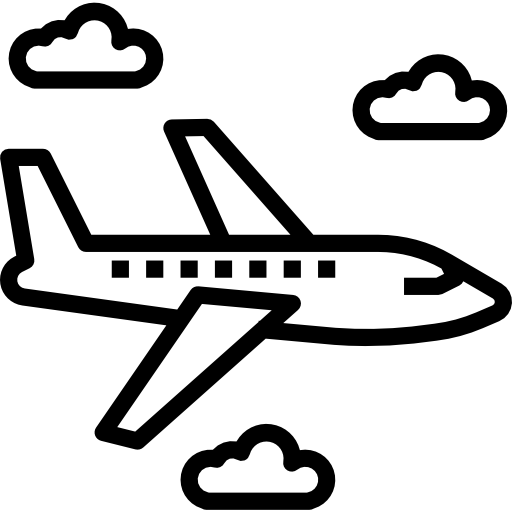
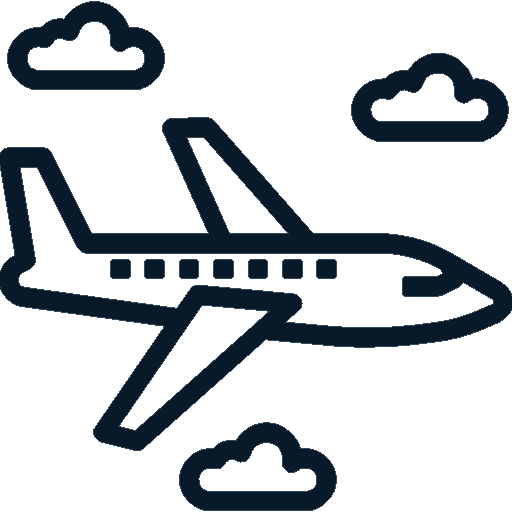
Improved website appearance and implemented request
Changed the background as well as the logo and added a favicon.
Implemented the request flow as well as the flavor text that displays how many countries were found by the request.

diff --git a/root/index.html b/root/index.html
@@ -23,22 +23,21 @@
     ></script>
     <link rel="stylesheet" href="css/index.css" />
     <script defer src="js/index.js"></script>
+    <link rel="shortcut icon" href="img/mundus-logo2.png" type="image/x-icon" />
     <title>Mundus</title>
   </head>
-  <body>
+  <body style="color: white !important">
     <nav class="navbar border-bottom border-dark border-3">
       <div class="container-fluid">
-        <a class="navbar-brand" href="#" style="font-size: 70px">
+        <a class="navbar-brand" href="#" style="font-size: 60px; color: white">
           <img
-            src="img/mundus-logo.png"
+            src="img/mundus-logo2.png"
             alt="Logo"
-            width="90"
-            height="90"
+            width="70"
+            height="70"
             class="d-inline-block align-text-top"
           />
-          Mundus<span style="font-size: 45px"
-            >, your personal guide to planet Earth.</span
-          >
+          Mundus<span style="font-size: 35px">, the Earth explorer.</span>
         </a>
       </div>
     </nav>
@@ -104,15 +103,43 @@
         </div>
       </div>
     </div>
+    <div id="country-count-flavor" class="h4 mt-4 text-center d-none">
+      Mundus found 80 countries.
+    </div>
     <div
       id="countryCarousel"
-      class="carousel slide carousel-dark"
-      data-bs-ride="true"
+      class="carousel slide carousel-light mt-4"
+      data-bs-ride="false"
     >
-      <div class="carousel-indicators"></div>
-      <div class="carousel-inner"></div>
+      <div class="carousel-indicators">
+        <button
+          type="button"
+          data-bs-target="#countryCarousel"
+          data-bs-slide-to="0"
+          class="active"
+          aria-current="true"
+          aria-label="Slide 1"
+        ></button>
+        <button
+          type="button"
+          data-bs-target="#countryCarousel"
+          data-bs-slide-to="1"
+          aria-label="Slide 2"
+        ></button>
+        <button
+          type="button"
+          data-bs-target="#countryCarousel"
+          data-bs-slide-to="2"
+          aria-label="Slide 3"
+        ></button>
+      </div>
+      <div class="carousel-inner text-center">
+        <div class="carousel-item active">Brazil</div>
+        <div class="carousel-item">United Kingdom</div>
+        <div class="carousel-item">Peru</div>
+      </div>
       <button
-        class="carousel-control-prev d-none"
+        class="carousel-control-prev"
         type="button"
         data-bs-target="#countryCarousel"
         data-bs-slide="prev"
@@ -121,7 +148,7 @@
         <span class="visually-hidden">Previous</span>
       </button>
       <button
-        class="carousel-control-next d-none"
+        class="carousel-control-next"
         type="button"
         data-bs-target="#countryCarousel"
         data-bs-slide="next"

diff --git a/root/js/index.js b/root/js/index.js
@@ -92,7 +92,9 @@ function submitSearch() {
   const searchHost = "https://restcountries.com/v3.1/";
   const searchBtn = document.querySelector("#search-button");
   const searchType = searchBtn.innerHTML;
-  const searchText = document.querySelector("#search-input").value.replace(/ /g,"%20");
+  const searchText = document
+    .querySelector("#search-input")
+    .value.replace(/ /g, "%20");
   let searchEndpoint;
   switch (searchType) {
     case "Code":
@@ -121,5 +123,35 @@ function submitSearch() {
       break;
   }
   const searchUri = searchHost + searchEndpoint;
-  console.log(searchUri);
+  fetch(searchUri)
+    .then((response) => response.json())
+    .then((data) => {
+      console.log(data);
+
+      if (data.status == 404) {
+        let countryCountFlavor = document.querySelector(
+          "#country-count-flavor"
+        );
+        countryCountFlavor.innerText =
+          "Mundus didn't find any countries matching your search.";
+        countryCountFlavor.classList.remove('d-none');
+      } else {
+        generateCountryCarousel(data);
+      }
+    });
+}
+
+function generateCountryCarousel(countryData) {
+  let countryCountFlavor = document.querySelector("#country-count-flavor");
+  let countryCount = countryData.length;
+  if (countryCount > 1) {
+    countryCountFlavor.innerText = `Mundus found ${countryCount} countries.`;
+  } else {
+    countryCountFlavor.innerText = `Mundus found ${countryCount} country.`;
+  }
+  countryCountFlavor.classList.remove('d-none');
+  countryData.forEach((element) => {
+    countryName = element.name.common;
+    console.log(countryName);
+  });
 }

diff --git a/root/css/index.css b/root/css/index.css
@@ -1,5 +1,8 @@
 body {
-    font-family: 'Signika', sans-serif;
-    background: linear-gradient(to right, #8e2de2, #4a00e0);
-
+  font-family: "Signika", sans-serif;
+  background-image: url("../img/world-background2.jpg");
+  background-size: cover;
 }
+
+
+
